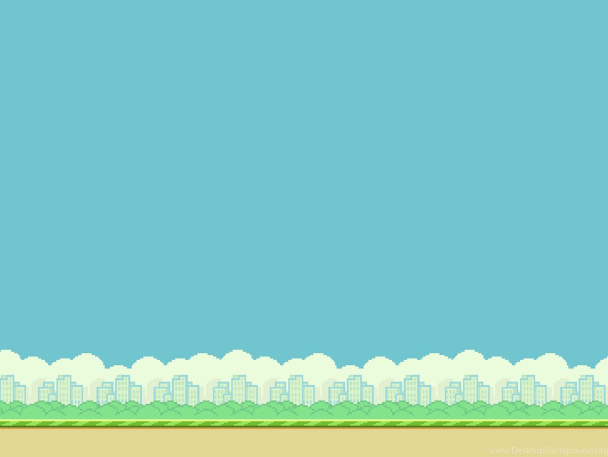
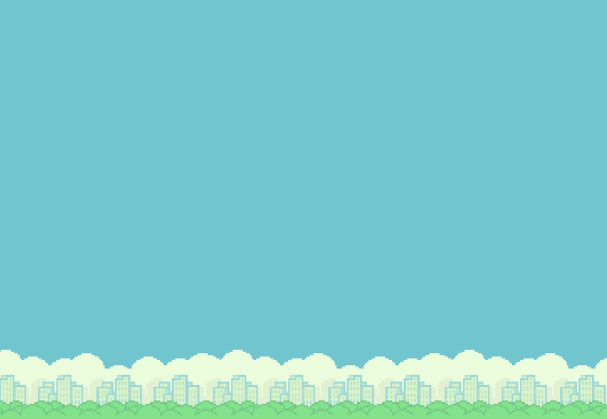
Game now supports wide screen displays

Changed region(s): [[0.0, 0.7446, 1.0, 1.0]]

diff --git a/templates/index.tmpl.html b/templates/index.tmpl.html
@@ -53,18 +53,21 @@
       .background {
         position: sticky;
         z-index: -1;
-        bottom: 50vh;
-        height: 81vh;
+        bottom: 75vh;
+        height: 100vh;
+        width: 200%;
         background-image: url("/local/background.png");
-        background-size: cover;
+        background-size: contain;
         background-position: top;
         background-repeat: repeat-x;
+        background-position-y: -375px;
       }
       .background-ground {
         position: sticky;
         z-index: 1;
         bottom: 16vh;
         height: 10vh;
+        width: 100%;
         background-image: url("/local/background-ground.png");
         background-size: cover;
         background-position: top;

diff --git a/game-state.go b/game-state.go
@@ -154,7 +154,7 @@ func newGameState() *GameState {
 		DebugMode:         false,
 		ClientAlive:       true,
 		Pipes:             map[string]*PipeSet{},
-		PollRate:          "35ms",
+		PollRate:          "15ms",
 		pipe_vert_offset:  400,
 		pipe_count:        4,
 		pipe_variation:    250,
